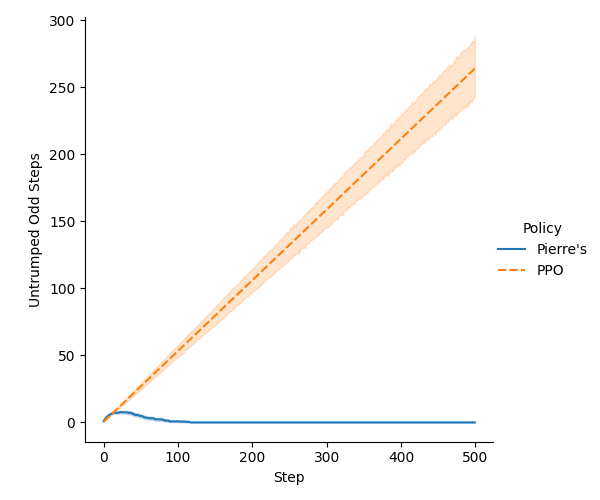
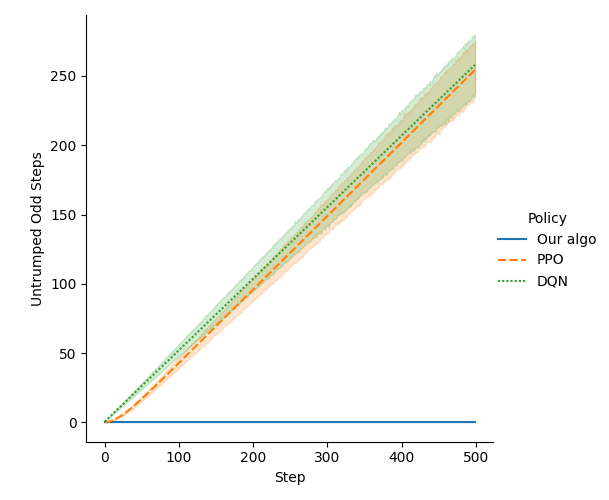
changes for article

diff --git a/learn.py b/learn.py
@@ -6,6 +6,7 @@ import pandas as pd
 from pomdpy.env import Env
 from pomdpy.parsers import pomdp
 import seaborn as sns
+from stable_baselines3 import DQN
 from stable_baselines3 import PPO
 
 
@@ -19,7 +20,7 @@ def learn(filename, buchi, cobuchi):
 
     # Pierre's policy
     model = env.synthesis()
-    pol = "Pierre's"
+    pol = "Our algo"
     print(f"== Start simulations of {pol} ==")
     for snum in range(numiter):
         if snum % 10 == 0:
@@ -40,6 +41,26 @@ def learn(filename, buchi, cobuchi):
 
     vec_env = model.get_env()
     pol = "PPO"
+    print(f"== Start simulations of {pol} ==")
+    for snum in range(numiter):
+        if snum % 10 == 0:
+            print(f"Starting simulation {snum + 1}")
+        obs = vec_env.reset()
+        for i in range(horizon):
+            action, _ = model.predict(obs, deterministic=True)
+            (obs, reward, done, info) = vec_env.step(action)
+            data.append(tuple([pol, i, info[0]["untrumped_odd_steps"]]))
+            assert not done
+    print(f"== All simulations of {pol} done! ==")
+
+    # DQN
+    print("Start learning DQN policy")
+    model = DQN("MlpPolicy", env, verbose=1)
+    model.learn(total_timesteps=10_000)
+    print("Learning done!")
+
+    vec_env = model.get_env()
+    pol = "DQN"
     print(f"== Start simulations of {pol} ==")
     for snum in range(numiter):
         if snum % 10 == 0:

diff --git a/README.md b/README.md
@@ -52,3 +52,8 @@ Above, one can see that an RL policy trained using PPO (from
 [stable-baselines3](https://stable-baselines3.readthedocs.io/en/master/)) does
 as well as flipping a coin in a revealing version of the classical
 [tiger](https://www.pomdp.org/examples/) POMDP.
+
+The figure was obtained running:
+```
+python learn.py examples/revealing-tiger.pomdp -1 tiger-left -1 tiger-right -1 dead -2 done
+```
